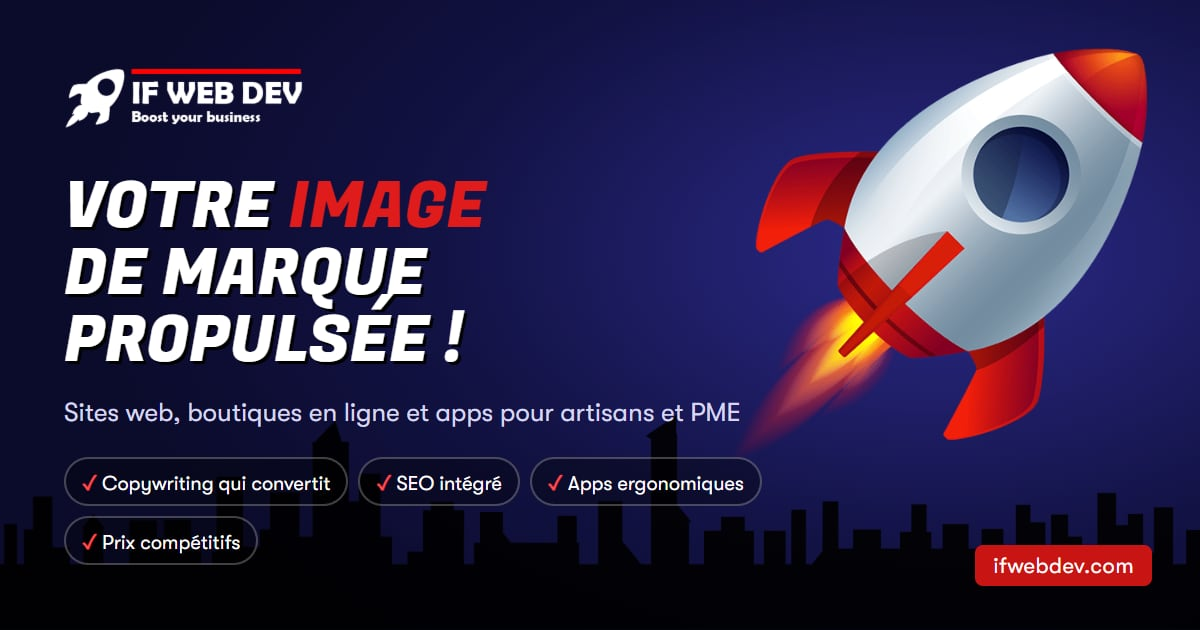
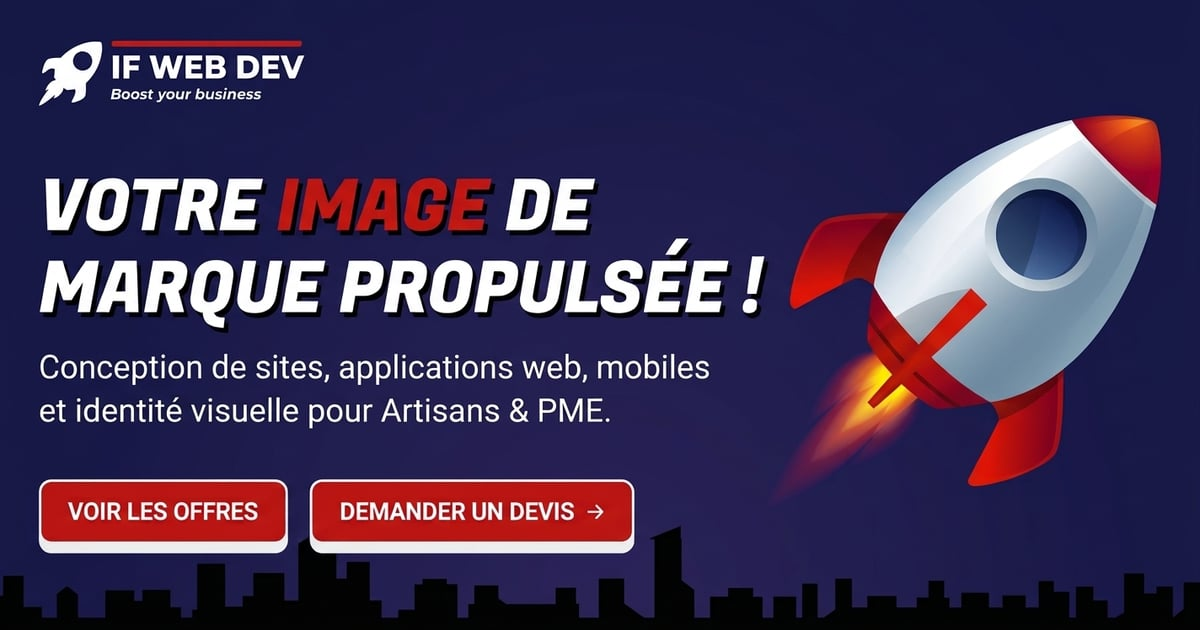
feat(seo): nouvelles images de partage fr et dz + cache-bust ?v=2

diff --git a/lib/i18n.ts b/lib/i18n.ts
@@ -462,9 +462,9 @@ export function pageMetadata(lang: Lang): Metadata {
       url,
       title: t.title,
       description: t.ogDescription,
-      images: [{ url: `${SITE}/og/og-${lang}.jpg`, width: 1200, height: 630, alt: t.title }],
+      images: [{ url: `${SITE}/og/og-${lang}.jpg?v=2`, width: 1200, height: 630, alt: t.title }],
     },
-    twitter: { card: "summary_large_image", title: t.title, description: t.ogDescription, images: [`${SITE}/og/og-${lang}.jpg`] },
+    twitter: { card: "summary_large_image", title: t.title, description: t.ogDescription, images: [`${SITE}/og/og-${lang}.jpg?v=2`] },
     alternates: {
       canonical: url,
       languages: { fr: `${SITE}/`, en: `${SITE}/en`, "ar-DZ": `${SITE}/dz`, "x-default": `${SITE}/` },
